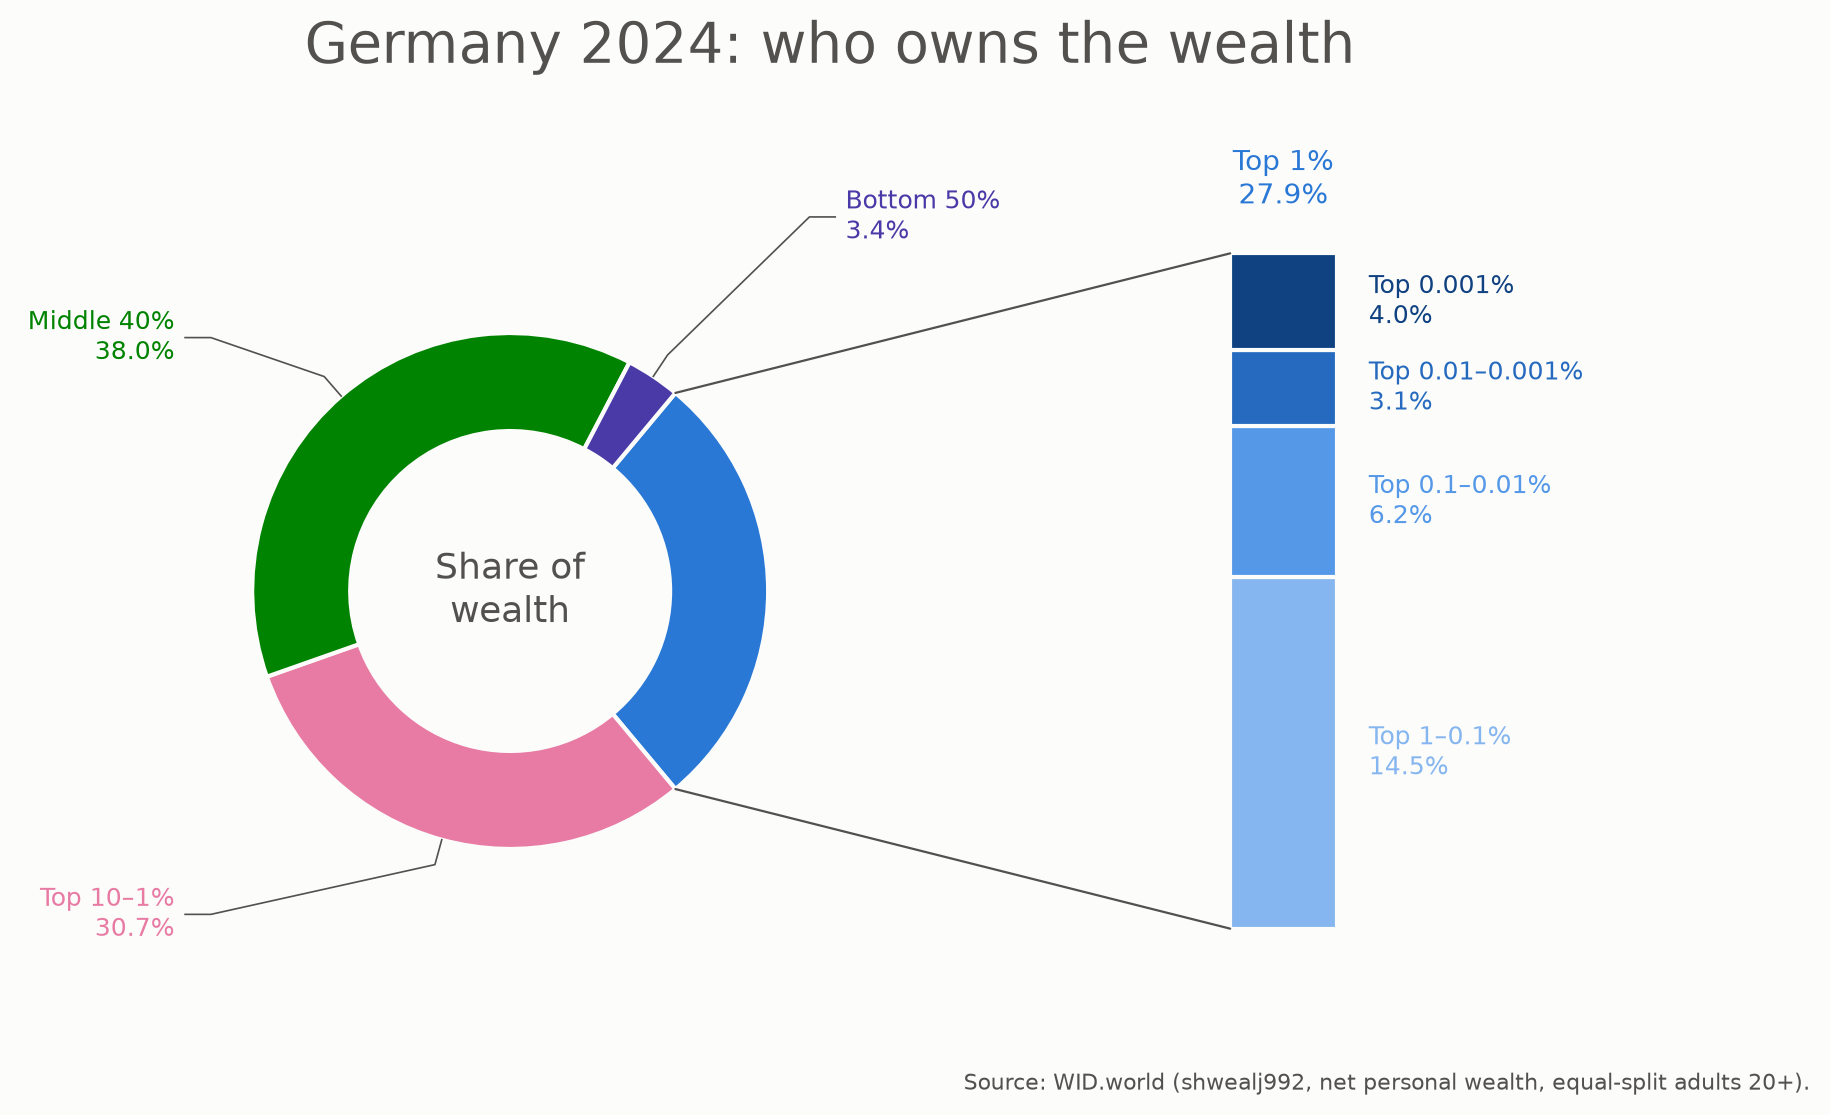
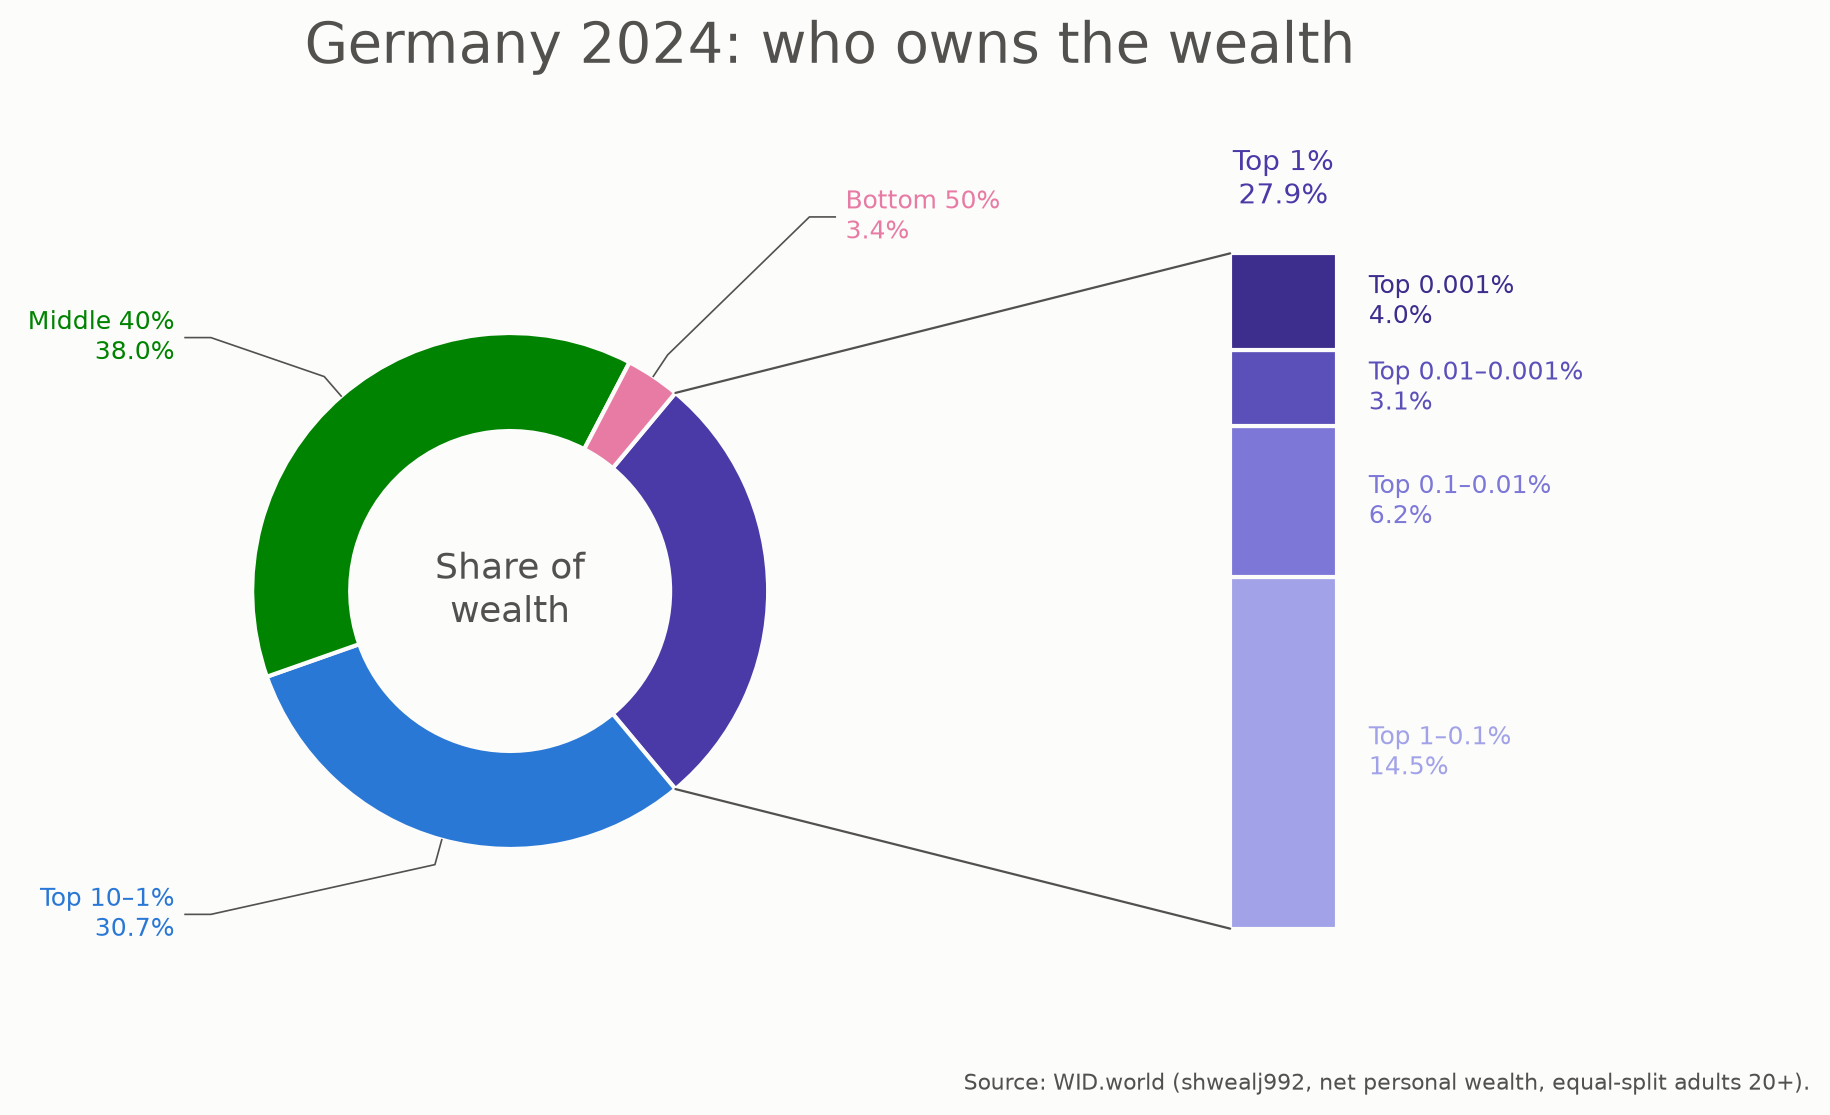
Bar-of-donut: purple for the top 1%, blue/green/pink for the rest
Top 1% in violet with a validated OKLCH purple ramp for its parts;
top 10-1% blue, middle 40% green, bottom 50% pink.

diff --git a/src/wid/plotting/bar_of_donut.py b/src/wid/plotting/bar_of_donut.py
@@ -14,7 +14,9 @@ from matplotlib.patches import ConnectionPatch
 
 from wid.plotting.donut_chart import (
     BLUE,
-    DETAILED_GROUPS,
+    GREEN,
+    MAGENTA,
+    VIOLET,
     Group,
     GroupSpec,
     build_groups,
@@ -24,18 +26,21 @@ from wid.plotting.donut_chart import (
 from wid.plotting.style import INK_SECONDARY, LABEL_FONTSIZE, SURFACE
 
 TOP_NAME = "Top 1%"
-# The top 1% slice in the donut, and its parts (richest last) in the bar: one
-# ordinal blue ramp, darker = richer.
-TOP_GROUP = GroupSpec(TOP_NAME, 1.0, 0.0, BLUE)
-TOP_PARTS: tuple[GroupSpec, ...] = (
-    GroupSpec("Top 1–0.1%", 1.0, 0.1, "#86b6ef"),
-    GroupSpec("Top 0.1–0.01%", 0.1, 0.01, "#5598e7"),
-    GroupSpec("Top 0.01–0.001%", 0.01, 0.001, "#256abf"),
-    GroupSpec("Top 0.001%", 0.001, 0.0, "#104281"),
-)
+# Ring colours, validated in wedge order (including the wrap-around pair top 1% /
+# bottom 50%) for colour-blind separation.
 DONUT_GROUPS: tuple[GroupSpec, ...] = (
-    *(spec for spec in DETAILED_GROUPS if spec.upper > TOP_GROUP.upper),
-    TOP_GROUP,
+    GroupSpec("Bottom 50%", 100.0, 50.0, MAGENTA),
+    GroupSpec("Middle 40%", 50.0, 10.0, GREEN),
+    GroupSpec("Top 10–1%", 10.0, 1.0, BLUE),
+    GroupSpec(TOP_NAME, 1.0, 0.0, VIOLET),
+)
+# The top 1% split up in the bar (richest last): an ordinal purple ramp at the
+# violet's hue (OKLCH h ≈ 284), darker = richer.
+TOP_PARTS: tuple[GroupSpec, ...] = (
+    GroupSpec("Top 1–0.1%", 1.0, 0.1, "#a2a2e8"),
+    GroupSpec("Top 0.1–0.01%", 0.1, 0.01, "#7d78d7"),
+    GroupSpec("Top 0.01–0.001%", 0.01, 0.001, "#5b50b9"),
+    GroupSpec("Top 0.001%", 0.001, 0.0, "#3d2e8d"),
 )
 
 BAR_WIDTH = 0.2
@@ -74,7 +79,7 @@ def plot_bar(ax: Axes, parts: list[Group], total_pct: float) -> None:
         ha="center",
         va="bottom",
         fontsize=LABEL_FONTSIZE + 1,
-        color=BLUE,
+        color=VIOLET,
     )
     ax.set_xlim(*BAR_X_LIMITS)
     ax.set_ylim(-BAR_Y_MARGIN * total_pct, (1 + BAR_Y_MARGIN) * total_pct)
